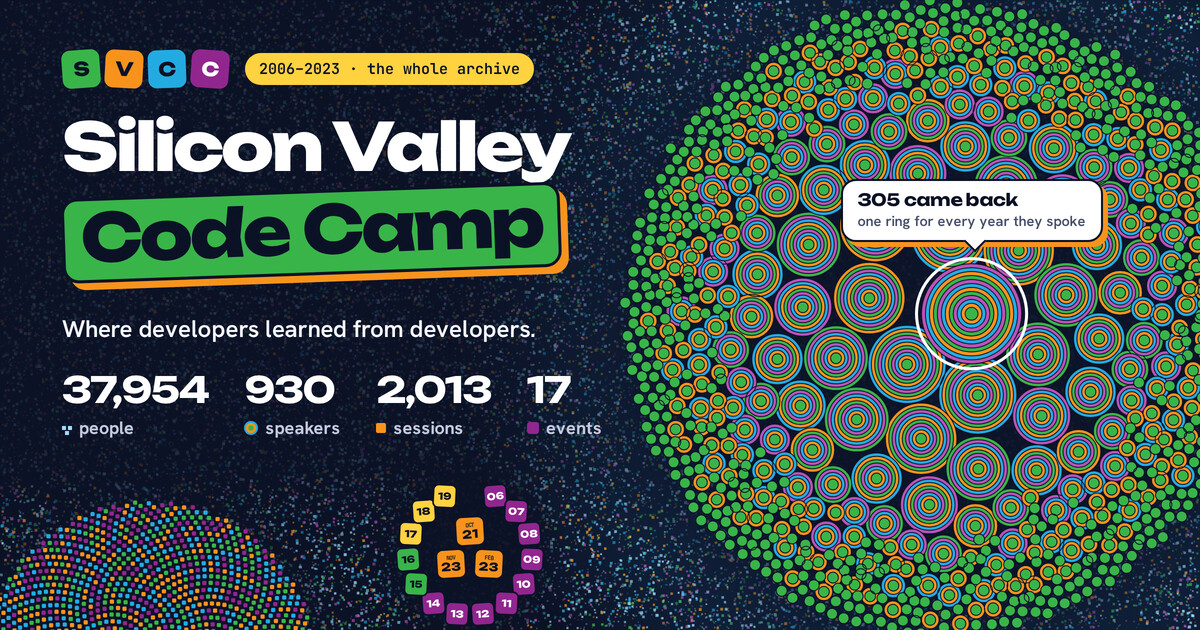
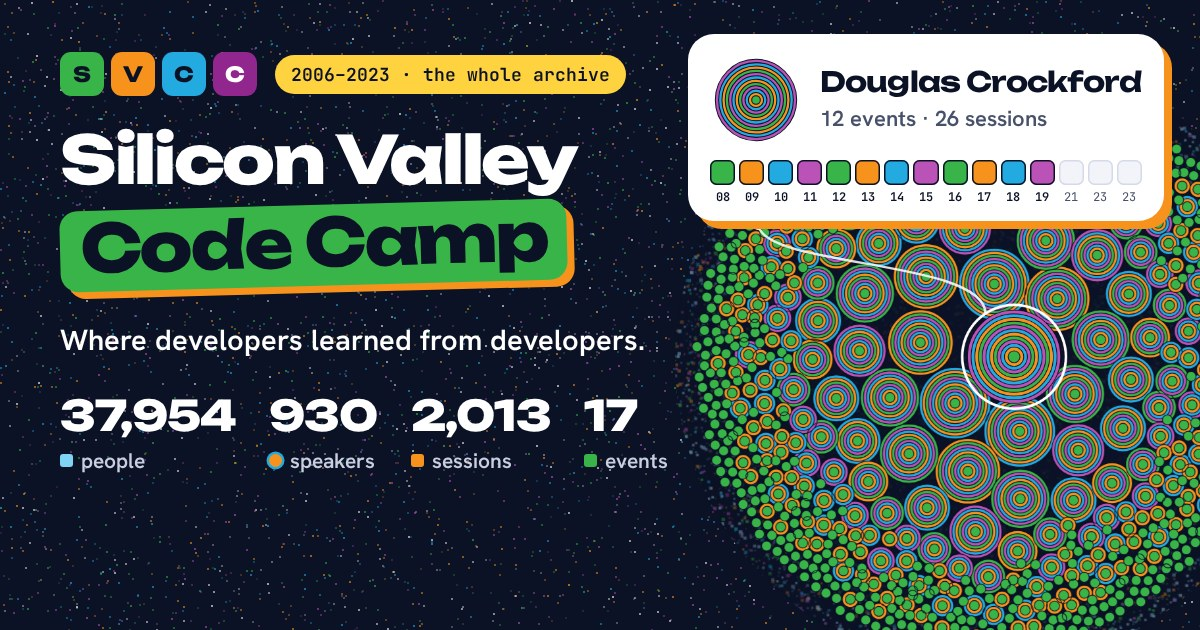
Social card shows Douglas Crockford's popup; README explains the two branches
The card is now drawn by scripts/og-card/make-og-card.mjs (npm run og-card)
from the built home page: the real speaker cluster with Douglas Crockford
picked, his card (12 events, 26 sessions, the years he spoke) as a popup
wired to his ring, and the title and counts on the left. The og:image URL
carries ?v=2 so sites that cached the old card fetch the new one.

The README now says what main and gh-pages each hold, why there are two,
and that they are never merged; the runbook says the same.

diff --git a/scripts/og-card/card.html b/scripts/og-card/card.html
@@ -1,0 +1,100 @@
+<!doctype html>
+<!-- The 1200x630 social card (public/images/og-svcc.jpg). make-og-card.mjs opens this page, calls
+     render() with the speaker cluster captured from the built home page, and screenshots it. -->
+<html>
+<head>
+<meta charset="utf-8">
+<link rel="stylesheet" href="/repo/styles/redesign-fonts.css">
+<style>
+  :root { --g: #39b449; --o: #f7931d; --b: #23abe1; --p: #91268f; --y: #ffd23f; --ink: #0c1226; --ink-2: #48516b; --paper: #fff; --paper-2: #f2f4fa; --line2: #d5dae8; }
+  * { box-sizing: border-box; margin: 0; }
+  html, body { width: 1200px; height: 630px; overflow: hidden; background: var(--ink); }
+  body { position: relative; font-family: "Hanken Grotesk", sans-serif; color: var(--paper); }
+  #specks, #cluster, #wire { position: absolute; inset: 0; }
+  #cluster { left: auto; top: auto; border-radius: 50%; }
+
+  .left { position: absolute; left: 60px; top: 52px; width: 600px; }
+  .brand { display: flex; align-items: center; gap: 18px; }
+  .tiles { display: flex; gap: 7px; }
+  .tiles b { width: 44px; height: 44px; border-radius: 11px; display: grid; place-items: center; font: 800 21px Unbounded, sans-serif; color: var(--ink); }
+  .pill { background: var(--y); color: var(--ink); border-radius: 999px; padding: 8px 16px; font: 600 18px "JetBrains Mono", monospace; }
+  h1 { margin-top: 30px; font: 800 66px/1.02 Unbounded, sans-serif; letter-spacing: -0.035em; }
+  h1 span { display: inline-block; margin-top: 12px; background: var(--g); color: var(--ink); border-radius: 18px; padding: 4px 20px 10px; box-shadow: 7px 7px 0 var(--o); transform: rotate(-1.5deg); }
+  .tagline { margin-top: 34px; font-weight: 600; font-size: 29px; }
+  .stats { display: flex; gap: 34px; margin-top: 30px; }
+  .stats b { display: block; font: 800 42px Unbounded, sans-serif; letter-spacing: -0.03em; }
+  .stats span { display: flex; align-items: center; gap: 8px; margin-top: 6px; font-size: 21px; font-weight: 600; color: #c9cfe0; }
+  .stats i { width: 13px; height: 13px; border-radius: 3px; }
+
+  .pop { position: absolute; background: var(--paper); color: var(--ink); border-radius: 26px; padding: 20px 22px 16px; box-shadow: 8px 8px 0 var(--o); display: grid; grid-template-columns: 92px 1fr; gap: 14px 18px; align-items: center; width: 476px; }
+  .pop svg.halo { width: 92px; height: 92px; display: block; }
+  .pop h2 { font: 700 28px/1.1 Unbounded, sans-serif; letter-spacing: -0.03em; }
+  .pop p { margin-top: 7px; font-size: 22px; font-weight: 600; color: var(--ink-2); }
+  .yrs { grid-column: 1 / -1; display: grid; grid-template-columns: repeat(15, 1fr); gap: 4px; padding: 0; list-style: none; }
+  .yrs li { display: flex; flex-direction: column; align-items: center; gap: 4px; font: 400 12px "JetBrains Mono", monospace; color: var(--ink-2); }
+  .yrs li.on { color: var(--ink); font-weight: 600; }
+  .yrs i { width: 100%; aspect-ratio: 1; border-radius: 26%; background: var(--paper-2); box-shadow: inset 0 0 0 1.5px var(--line2); }
+  .yrs li.on i { box-shadow: inset 0 0 0 1.5px var(--ink); }
+</style>
+</head>
+<body>
+<canvas id="specks" width="1200" height="630"></canvas>
+<img id="cluster" alt="">
+<svg id="wire" width="1200" height="630"></svg>
+<div class="left">
+  <div class="brand">
+    <div class="tiles"><b style="background:var(--g)">S</b><b style="background:var(--o)">V</b><b style="background:var(--b)">C</b><b style="background:var(--p);color:#fff">C</b></div>
+    <div class="pill">2006–2023 · the whole archive</div>
+  </div>
+  <h1>Silicon Valley<br><span>Code Camp</span></h1>
+  <p class="tagline">Where developers learned from developers.</p>
+  <div class="stats" id="stats"></div>
+</div>
+<div class="pop" id="pop"></div>
+<script>
+  // Confetti specks, one field like the home page's crowd. Seeded so every run draws the same card.
+  function specks() {
+    const c = document.getElementById("specks").getContext("2d");
+    let s = 7;
+    const rnd = () => ((s = (s * 16807) % 2147483647) / 2147483647);
+    const cols = ["#39b449", "#f7931d", "#23abe1", "#bb52b8", "#ffffff"];
+    for (let i = 0; i < 5200; i++) {
+      c.globalAlpha = 0.18 + rnd() * 0.42;
+      c.fillStyle = cols[Math.floor(rnd() * cols.length)];
+      c.fillRect(Math.floor(rnd() * 1200), Math.floor(rnd() * 630), 2, 2);
+    }
+  }
+
+  // d: { cluster: dataURL, ring: {x, y, r} (fractions of the cluster image), name, meta, svg, yrs: [{label, color}], stats: [[n, label, color]] }
+  window.render = async function (d) {
+    specks();
+    document.getElementById("stats").innerHTML = d.stats.map(([n, label, color]) => `<div><b>${n}</b><span><i style="${color === "ring" ? "background:#f7931d;border-radius:50%;box-shadow:0 0 0 2.5px #23abe1" : "background:" + color}"></i>${label}</span></div>`).join("");
+
+    // the speaker cluster: a disc bleeding off the right edge, the chosen speaker's ring near its middle
+    const D = 620, cx = 985, cy = 360;
+    const img = document.getElementById("cluster");
+    img.style.width = img.style.height = D + "px";
+    img.style.left = cx - D / 2 + "px";
+    img.style.top = cy - D / 2 + "px";
+    img.src = d.cluster;
+    await img.decode();
+    const rx = cx - D / 2 + d.ring.x * D, ry = cy - D / 2 + d.ring.y * D, rr = d.ring.r * D;
+
+    // the popup card above the ring, with a wire from its corner to the ring
+    const pop = document.getElementById("pop");
+    pop.innerHTML =
+      d.svg.replace("<svg", '<svg class="halo"') +
+      `<div><h2>${d.name}</h2><p>${d.meta}</p></div>` +
+      `<ol class="yrs">${d.yrs.map((y) => `<li class="${y.color ? "on" : ""}"><i style="${y.color ? "background:" + y.color : ""}"></i>${y.label}</li>`).join("")}</ol>`;
+    pop.style.left = "688px";
+    pop.style.top = "34px";
+    const pb = pop.getBoundingClientRect();
+    const x0 = pb.left + 70, y0 = pb.bottom + 2, x1 = rx - rr * 0.55, y1 = ry - rr * 0.83;
+    document.getElementById("wire").innerHTML =
+      `<path d="M${x0},${y0} C${x0},${(y0 + y1) / 2} ${x1},${(y0 + y1) / 2 - 10} ${x1},${y1}" fill="none" stroke="#fff" stroke-width="2.5" opacity=".85"/>` +
+      `<circle cx="${x0}" cy="${y0 + 2}" r="5" fill="#fff"/>`;
+    await document.fonts.ready;
+  };
+</script>
+</body>
+</html>

diff --git a/src/app/layout.tsx b/src/app/layout.tsx
@@ -14,11 +14,13 @@ export function generateViewport() {
 
 // The social card (1200x630). metadataBase is the custom domain, which this archive is not served
 // from yet, so on the project-pages build the image is addressed where that site really is.
+// The ?v= changes whenever the card is redrawn (npm run og-card), so sites that cached the old one fetch it again.
+const OG_PATH = "/images/og-svcc.jpg?v=2";
 const OG_IMAGE = {
-  url: process.env.NEXT_PUBLIC_BASE_PATH ? "https://pkellner.github.io" + withBasePath("/images/og-svcc.jpg") : "/images/og-svcc.jpg",
+  url: process.env.NEXT_PUBLIC_BASE_PATH ? "https://pkellner.github.io" + withBasePath(OG_PATH) : OG_PATH,
   width: 1200,
   height: 630,
-  alt: "Silicon Valley Code Camp: 37,954 people, 930 speakers, 2,013 sessions and 17 events, drawn as one mark each.",
+  alt: "Silicon Valley Code Camp: 37,954 people, 930 speakers, 2,013 sessions and 17 events. Douglas Crockford spoke at 12 of them.",
 };
 
 export const metadata = {

diff --git a/REBUILD-STATIC-SITE.md b/REBUILD-STATIC-SITE.md
@@ -19,6 +19,7 @@ No database and no `.env` are needed.
 - **Content** (a news post, a session, a speaker bio): edit `static-data/global.json` (events and news, key `allNewsData`) or `static-data/years/<token>.json` (sessions, speakers, tracks, sponsors for one event).
 - **A page's layout or wording**: edit the template under `src/app/(public-site)/`.
 - **An image**: replace the file under `public/`.
+- **The social card** (`public/images/og-svcc.jpg`): edit `scripts/og-card/card.html` if needed, run `npm run build:gh-pages` then `npm run og-card` (it draws the card from the built home page), bump the `?v=` in `OG_PATH` in `src/app/layout.tsx` so sites that cached the old card fetch the new one, and build again.
 
 If a session or speaker changed, also run `npm run home-data`. It regenerates the home page galaxy data (`public/home/sessions.json` and the speaker rows in `src/app/(public-site)/home/homeData.ts`) from the JSON. On unchanged data it changes nothing.
 
@@ -44,7 +45,7 @@ This must end in `PASS`. It checks that every link, image and redirect in every 
 
 ## 4. Deploy
 
-Peter may edit the `gh-pages` branch directly, and a deploy replaces it with `out/`. So before deploying, check that the remote `gh-pages` head is still the last deploy, and deploy only with Peter's say-so:
+`gh-pages` is generated output, and a deploy replaces its contents with `out/` (plus `README.md` from `main`). Anything edited directly on `gh-pages` is lost. So before deploying, check that the remote `gh-pages` head is still the last deploy, and deploy only with Peter's say-so:
 
 ```bash
 ALLOW_SVCC_SITE_DEPLOY=1 npm run deploy:gh-pages
@@ -68,7 +69,9 @@ GitHub's CDN caches pages for up to 10 minutes. If `test:gh-pages` reports "cont
 
 ## 6. Commit
 
-Commit the JSON and source changes on `main`. The deploy step publishes the built site to `gh-pages` separately.
+Commit the JSON and source changes on `main` and push `main`. The deploy step publishes the built site to `gh-pages` separately.
+
+Never merge, rebase or cherry-pick between `main` and `gh-pages`, and never open a pull request between them. They have unrelated histories, and the build and deploy above are the only path from one to the other (see "Two branches — never merge" in the README).
 
 ## Gotchas
 

diff --git a/README.md b/README.md
@@ -11,6 +11,27 @@ An archive of the Silicon Valley Code Camp (SVCC) website: every year from 2006 
 
 This repo has everything needed to change and rebuild the site. Nothing else is required: no database, no other repository.
 
+## Two branches — never merge
+
+| | `main` | `gh-pages` |
+|---|---|---|
+| Holds | the data (`static-data/*.json`, the source of truth) and the source that builds the site | the generated site, exactly as GitHub Pages serves it |
+| Who changes it | you, by editing JSON, templates, styles or images | only the deploy script |
+| Default branch on GitHub | no | yes |
+
+**If you are looking at the `gh-pages` branch:** every file here except this README is generated. Don't edit it. A direct edit is overwritten by the next deploy. The data and source are on branch `main`.
+
+**Why two branches.** GitHub Pages serves a branch as it is, so the published files have to sit on a branch of their own. Keeping the generated output, which is about 475 MB and changes in thousands of files on every build, off `main` keeps the source history readable. It also means the whole site can be rebuilt from `main` at any time.
+
+**Never merge them.** The two branches have unrelated histories, because `main` was created as an orphan branch. Never merge either one into the other, never rebase or cherry-pick between them, and never open a pull request from one to the other. The only way changes on `main` reach `gh-pages` is a build followed by a deploy:
+
+```bash
+npm run build:gh-pages
+ALLOW_SVCC_SITE_DEPLOY=1 npm run deploy:gh-pages    # only with Peter's say-so
+```
+
+The deploy copies this README from `main` onto `gh-pages`, which is why both branches show the same README.
+
 ## How it works
 
 ```
@@ -47,6 +68,7 @@ src/lib/basePath.ts               base-path helpers for hosting under /svcc-site
 styles/                           stylesheets
 scripts/prune-out.sh              removes files that must not be published
 scripts/build-home-data.mjs       regenerates the home page galaxy data from the JSON
+scripts/og-card/make-og-card.mjs  draws the social card public/images/og-svcc.jpg from the built home page
 scripts/deploy-gh-pages.mjs       pushes out/ to gh-pages
 scripts/test-gh-pages*.mjs        local, live and in-browser checks
 ```
